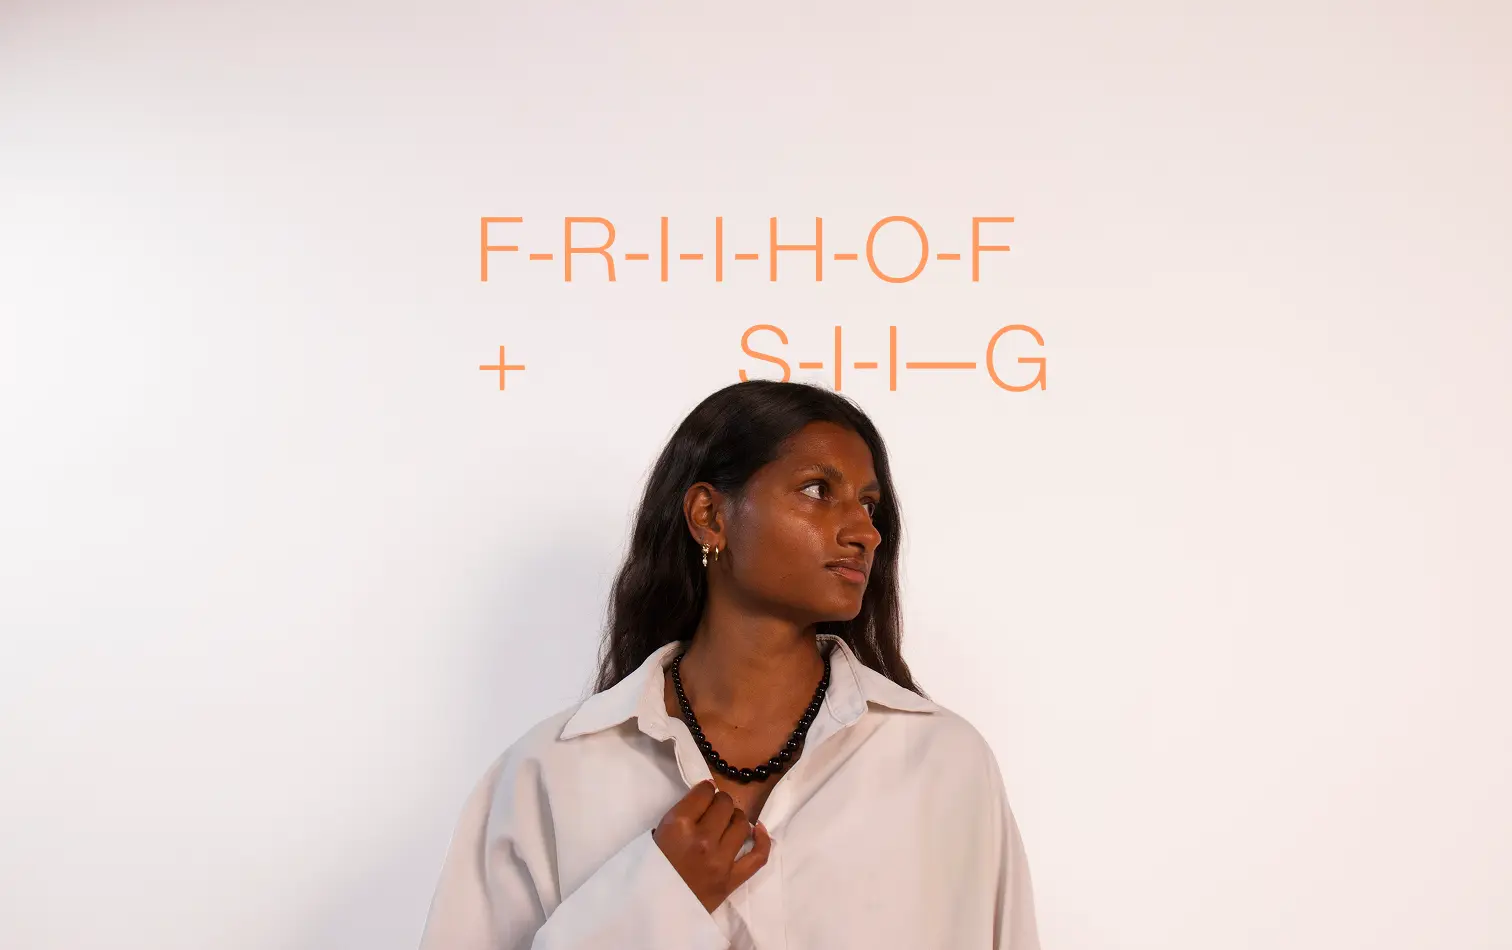
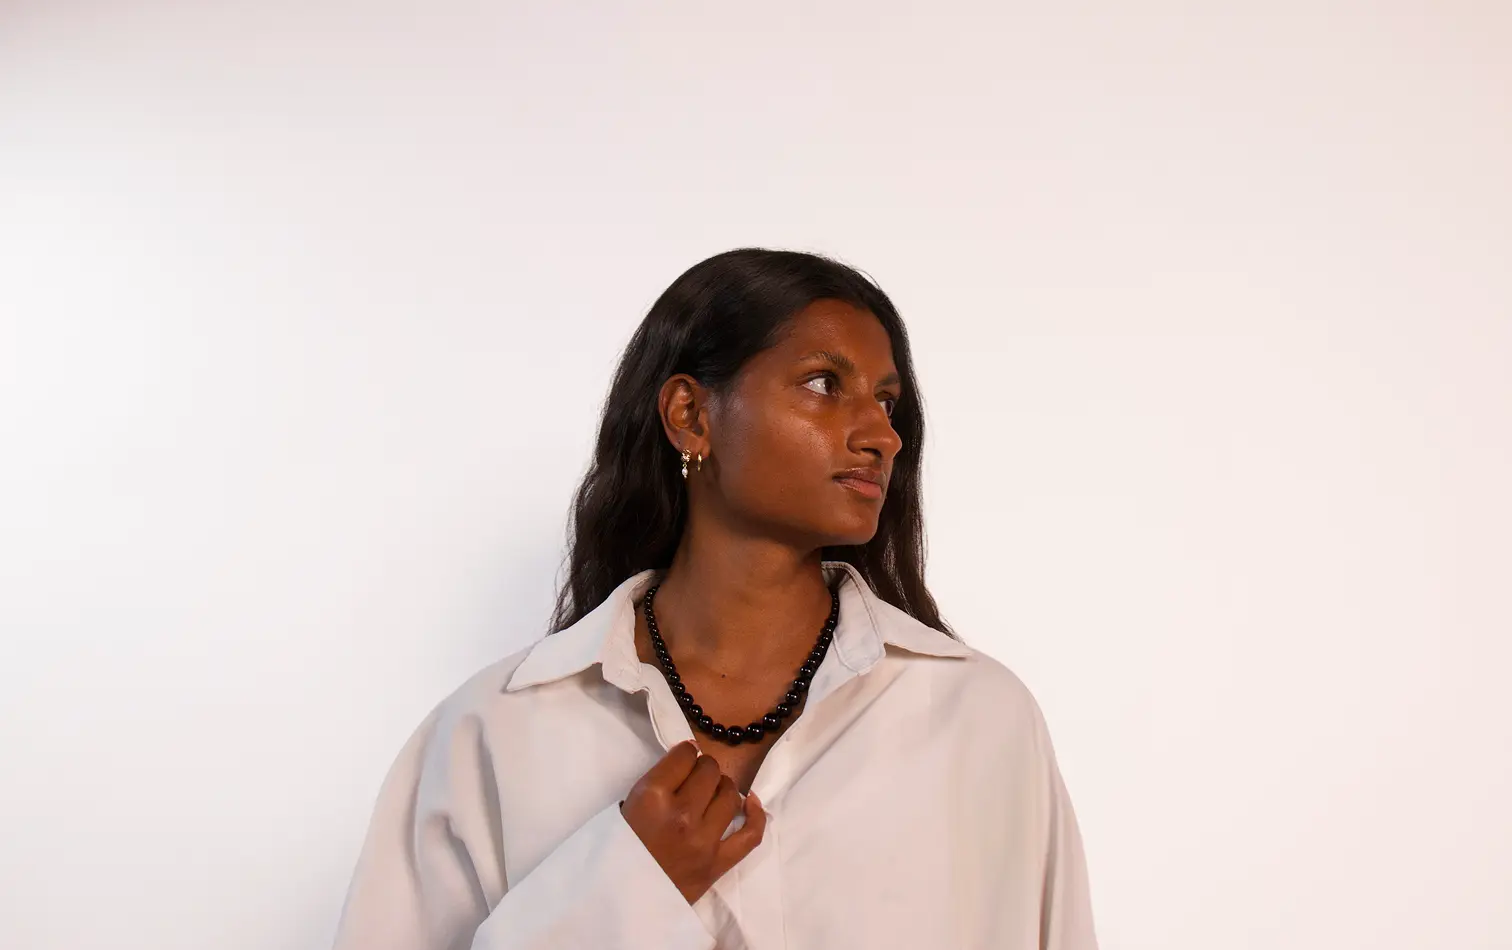
nummer9

Changed region(s): [[0.2176, 0.2137, 0.746, 1.0], [0.3108, 0.3663, 0.3419, 0.3968]]

diff --git a/README.md b/README.md
@@ -85,7 +85,8 @@ Friihogsiig/
 │   │   ├── kurv.astro
 │   │   ├── omFS.astro
 │   │   ├── productlist.astro
-│   │   ├── [id].astro
+│   │   │   ├── singleproduct
+│   │   │   │   ├── [id].astro
 │   ├── styles/
 │   │   ├── footer.css
 │   │   ├── global.css